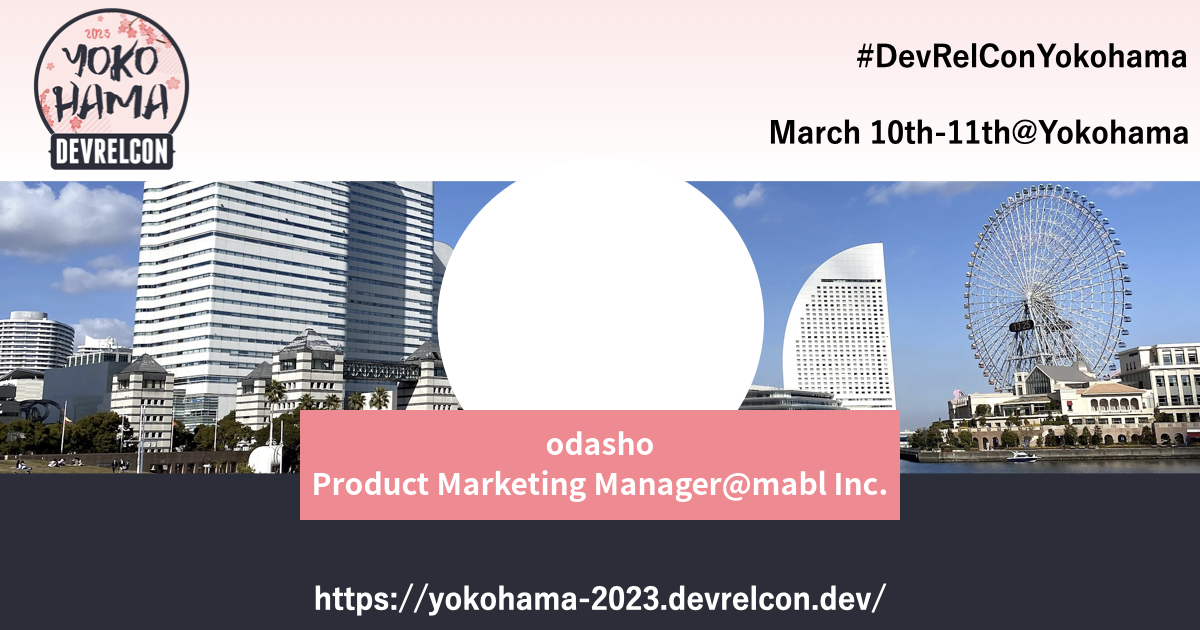
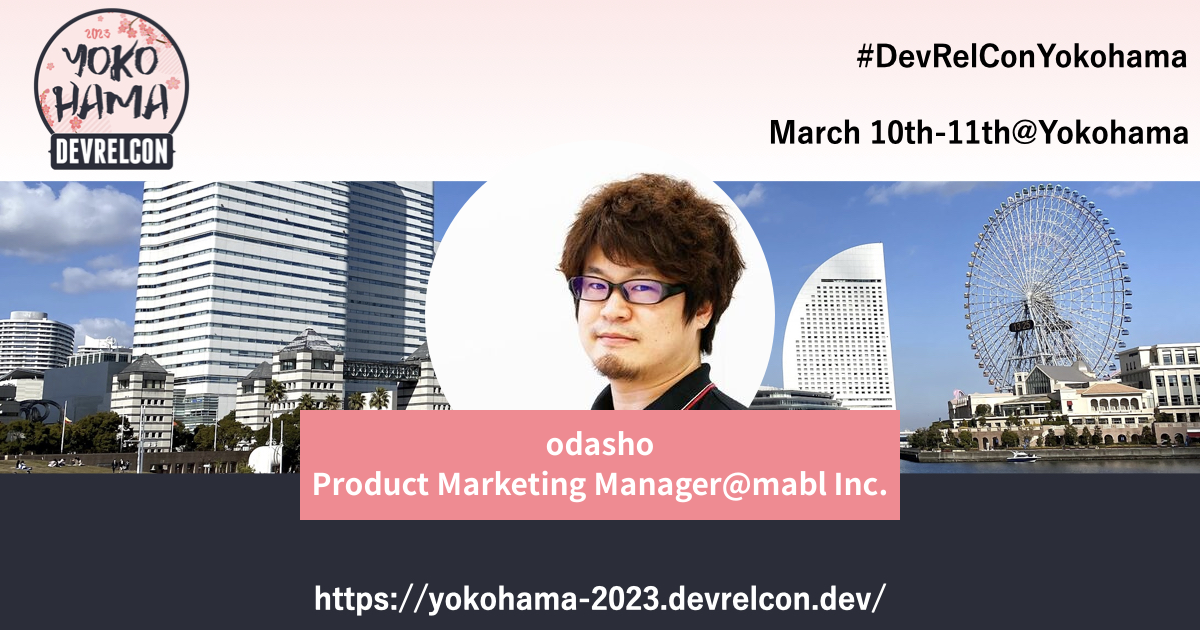
update image

Changed region(s): [[0.4625, 0.2714, 0.6475, 0.6635], [0.3392, 0.2714, 0.4317, 0.6032], [0.37, 0.6032, 0.4008, 0.6635]]

diff --git a/index.ts b/index.ts
@@ -43,13 +43,14 @@ export const generateOgImage = async (organizer: TypeOrganizer): Promise<Buffer>
   ctx.drawImage(image, 0, 0, width, height);
 	ctx.save();
 	ctx.scale(1, 1);
-	const imageSize = 400;
+	const imageSize = 350;
   const circle = imageSize/2;
   ctx.arc(width / 2, height / 2, circle, 0, Math.PI*2, false);
   ctx.clip();
 	const imageSrc = path.resolve(current, `assets/images/people/${organizer.id}.jpg`);	
 	const personSource = await (organizer.photo ? (await axios.get(organizer.photo, { responseType: 'arraybuffer' })).data : promisify(fs.readFile)(imageSrc));
 	const person = await loadImage(personSource);
+	ctx.drawImage(person, 0, 0, imageSize, imageSize, width / 2 - imageSize / 2, height / 2 - imageSize / 2, imageSize, imageSize);
   ctx.restore();
 	ctx.beginPath();
   ctx.fillStyle = "rgb(238,139,146)";
